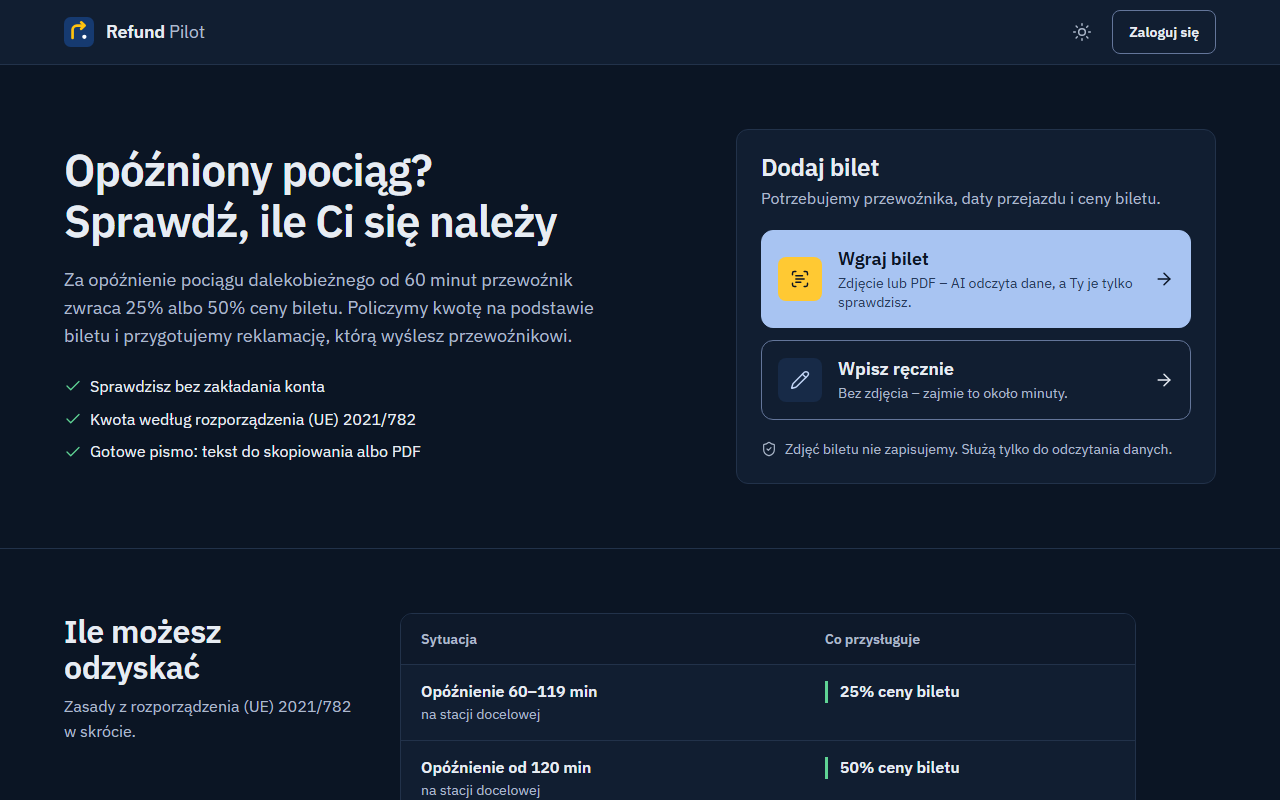
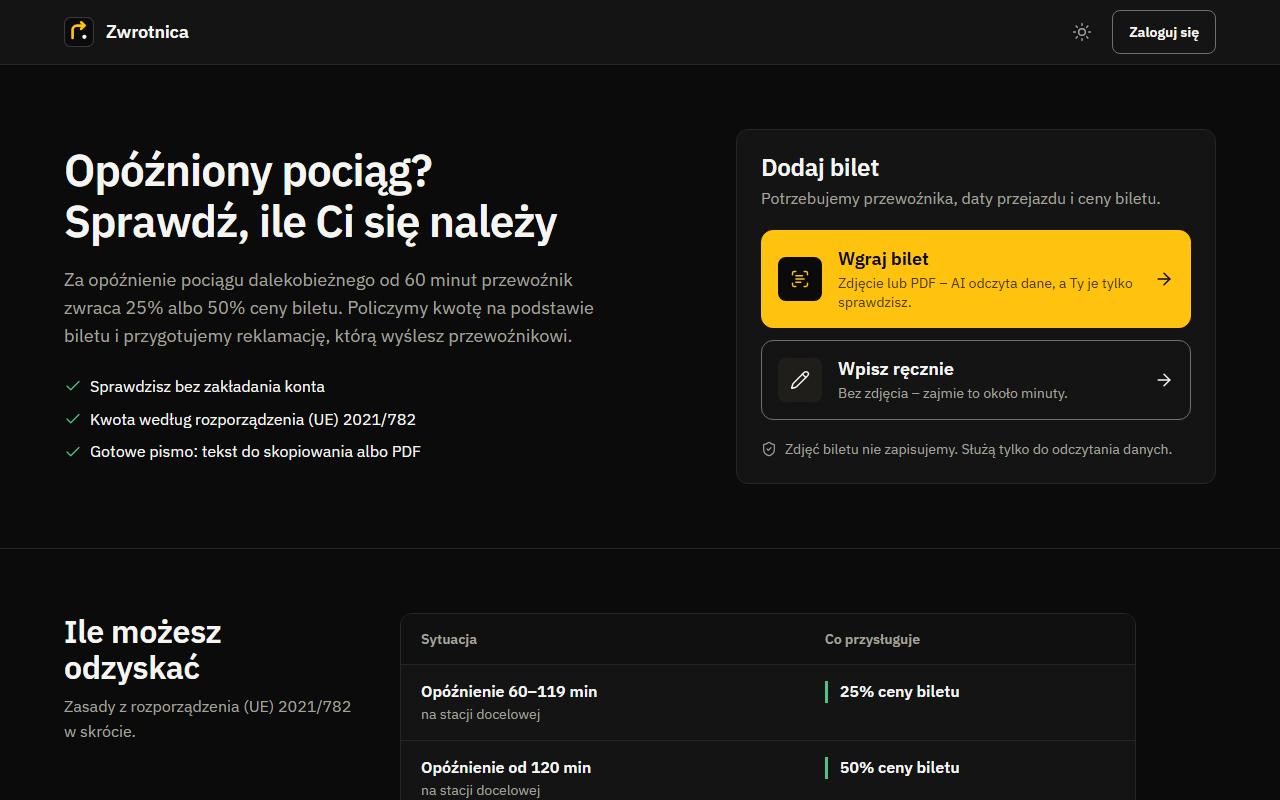
docs: re-record demo and screenshots for Zwrotnica themes and final verdict

diff --git a/README.md b/README.md
@@ -45,9 +45,9 @@ Nazwy projektów i przestrzeni nazw w kodzie (`RefundPilot.*`, `RefundPilot.sln`
 
 ## Zrzuty ekranu
 
-| Strona główna | Wynik | Pismo |
-|---|---|---|
-| ![Strona główna, jasny motyw](docs/screenshots/desktop-light-home-full.png) | ![Werdykt i kwota](docs/screenshots/desktop-light-result.jpg) | ![Pismo reklamacyjne](docs/screenshots/desktop-light-letter.jpg) |
+| Strona główna | Wynik | Werdykt końcowy | Pismo |
+|---|---|---|---|
+| ![Strona główna, jasny motyw](docs/screenshots/desktop-light-home-full.png) | ![Werdykt i kwota](docs/screenshots/desktop-light-result.jpg) | ![Werdykt końcowy z podstawą prawną](docs/screenshots/desktop-light-final-verdict.jpg) | ![Pismo reklamacyjne](docs/screenshots/desktop-light-letter.jpg) |
 
 | Sprawy (ciemny motyw) | Telefon – start | Telefon – ścieżka ręczna (ciemny) |
 |---|---|---|
